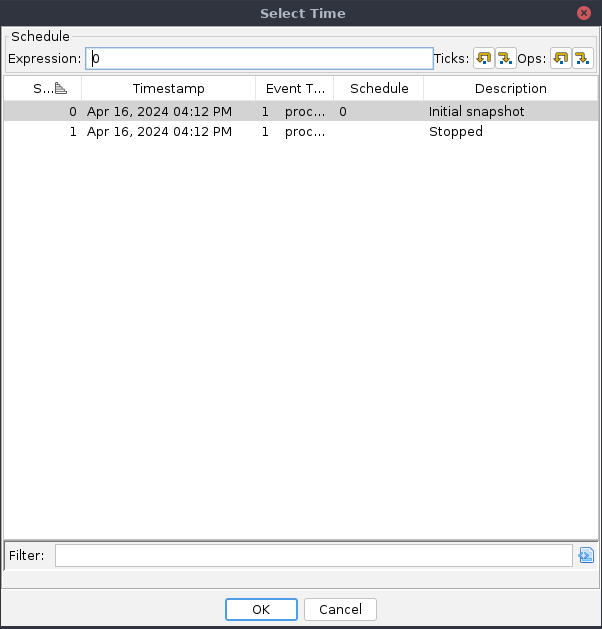
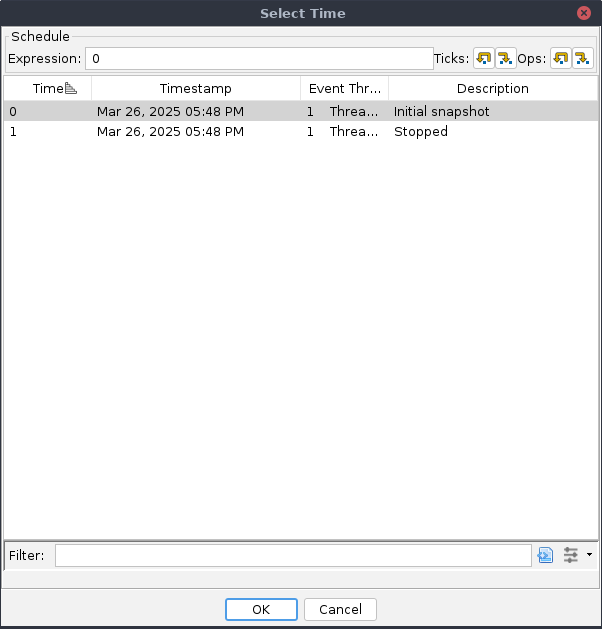
GP-5499: Add 'Time' column to Time table.

diff --git a/Ghidra/Debug/Debugger/src/main/help/help/topics/DebuggerTimeOverviewPlugin/DebuggerTimeOverviewPlugin.html b/Ghidra/Debug/Debugger/src/main/help/help/topics/DebuggerTimeOverviewPlugin/DebuggerTimeOverviewPlugin.html
@@ -13,32 +13,28 @@
   <BODY lang="EN-US">
     <H1><A name="plugin"></A>Debugger: Time Overview</H1>
 
-    <P>Patterned on the Program Overview, this plugin provides a pair of sidebars for the 
-	Dynamic Listing that indicate the history of the current trace, similar to those in the 
-	<A href="help/topics/DebuggerTimePlugin/DebuggerTimePlugin.html">Time</A>
-	and <A href="help/topics/DebuggerMemviewPlugin/DebuggerMemviewPlugin.html">Memview</A> plugins.  
-	The Trace Overview bar gives a compressed view of various events
-	(thread creation/destruction, module loads/unloads, et cetera). Events are added in time
-	snap order <em>without</em> spaces between consecutive events, as in the Memview display. The Trace 
-	Selection sidebar allows the user to click &amp; drag over a section of either sidebar and zooms 
-	in on that time span. In the zoomed version, events are in snap order <em>with</em> intervening space
-	to indicate the actual time delays (although these are dictated, in part, by the numbering
-	schema for events).
-	</P>
-
+    <P>Patterned on the Program Overview, this plugin provides a pair of sidebars for the Dynamic
+    Listing that indicate the history of the current trace, similar to those in the <A href=
+    "help/topics/DebuggerTimePlugin/DebuggerTimePlugin.html">Time</A> and <A href=
+    "help/topics/DebuggerMemviewPlugin/DebuggerMemviewPlugin.html">Memview</A> plugins. The Trace
+    Overview bar gives a compressed view of various events (thread creation/destruction, module
+    loads/unloads, et cetera). Events are added in time snap order <EM>without</EM> spaces between
+    consecutive events, as in the Memview display. The Trace Selection sidebar allows the user to
+    click &amp; drag over a section of either sidebar and zooms in on that time span. In the zoomed
+    version, events are in snap order <EM>with</EM> intervening space to indicate the actual time
+    delays (although these are dictated, in part, by the numbering schema for events).</P>
 
     <H2>Navigation</H2>
 
     <H3><A name="zoom"></A><IMG alt="" src="icon.widget.imagepanel.zoom.in">Zoom</H3>
 
-    <P>Clicking and dragging over a region of the Trace Overview causes that
-	span to be displayed uncompressed in the Trace Selection. The same action can also
-	be applied to the Trace Selection itself, resulting in a more detailed zoom.</P>
-	
-	<H3><A name="move"></A><IMG alt="" src="icon.widget.imagepanel.zoom.in">Move</H3>
-	
-	<P>Shift click &amp; drag on the Trace Selection allows the user to move forward and
-	backward in the view without rescaling.
-	</P>
+    <P>Clicking and dragging over a region of the Trace Overview causes that span to be displayed
+    uncompressed in the Trace Selection. The same action can also be applied to the Trace Selection
+    itself, resulting in a more detailed zoom.</P>
+
+    <H3><A name="move"></A><IMG alt="" src="icon.widget.imagepanel.zoom.in">Move</H3>
+
+    <P>Shift click &amp; drag on the Trace Selection allows the user to move forward and backward
+    in the view without rescaling.</P>
   </BODY>
 </HTML>

diff --git a/Ghidra/Debug/Debugger/src/main/help/help/topics/DebuggerTimePlugin/DebuggerTimePlugin.html b/Ghidra/Debug/Debugger/src/main/help/help/topics/DebuggerTimePlugin/DebuggerTimePlugin.html
@@ -25,14 +25,18 @@
     snapshot <EM>activates</EM> the selected point in time, i.e., the entire Debugger UI will
     navigate to the selected snapshot. <B>NOTE:</B> Navigating through time is not permitted while
     in <B>Control Target</B> <A href=
-    "help/topics/DebuggerControlPlugin/DebuggerControlPlugin.html#control_mode">mode</A>.</P>
+    "help/topics/DebuggerControlPlugin/DebuggerControlPlugin.html#control_mode">mode</A>, unless
+    the back end supports time travel.</P>
 
     <H2>Table Columns</H2>
 
     <P>The table has the following columns:</P>
 
     <UL>
-      <LI>Snap - the 0-up index of the snapshot (event) recorded.</LI>
+      <LI>Snap - the 0-up index of the snapshot (event) recorded. <EM>(hidden by default)</EM></LI>
+
+      <LI>Time - the "time" coordinate for the snapshot. This is the same as the Snap column for
+      most snapshots. For <EM>scratch</EM> snapshots, this is the same as the Schedule column.</LI>
 
       <LI>Timestamp - the "wall-clock" time of the event. If the debugger doesn't give an event
       time, or the snapshot does not correspond to an event, then it is the snapshot creation
@@ -44,7 +48,8 @@
       <LI>Schedule - if applicable, a source snap and the stepping schedule which produces this
       snapshot. This always applies to <EM>scratch</EM> snapshots produced by emulation, but may
       (rarely) apply to recorded events if the stepping schedule between them is somehow known. See
-      the <A href="#goto_time">Go To Time</A> action for a description of the notation.</LI>
+      the <A href="#goto_time">Go To Time</A> action for a description of the notation. <EM>(hidden
+      by default)</EM></LI>
 
       <LI>Description - a user-modifiable description of the snapshot or event. This defaults to
       the debugger's description of the event.</LI>
@@ -91,11 +96,10 @@
 
     <H3><A name="hide_scratch"></A>Hide Scratch</H3>
 
-    <P>This toggle action is always available in the drop-down actions of the Time window. It is
-    enabled by default. The emulation service, which enables trace extrapolation and interpolation,
-    writes emulated state into the trace's <EM>scratch space</EM>, which comprises all negative
-    snaps. When this toggle is enabled, those snapshots are hidden. They can be displayed by
-    disabling this toggle. Note that navigating into scratch space may cause temporary undefined
-    behavior in some windows, and may prevent interaction with the target.</P>
+    <P>This toggle action is always available in the toolbar of the Time window. It is disabled by
+    default. The emulation service, which enables trace extrapolation and interpolation, writes
+    emulated state into the trace's <EM>scratch space</EM>, which comprises all negative snaps.
+    Some time-travel capable back ends may also write into scratch space. When this toggle is
+    enabled, those scratch snapshots are hidden.</P>
   </BODY>
 </HTML>

diff --git a/GhidraDocs/GhidraClass/Debugger/A5-Navigation.html b/GhidraDocs/GhidraClass/Debugger/A5-Navigation.html
@@ -230,16 +230,15 @@ alt="Time window" />
 general, every pause generates a snapshot. By default, the most recent
 snapshot is at the bottom. The columns are:</p>
 <ul>
-<li>The <strong>Snap</strong> column numbers each snapshot. Other
-windows that indicate life spans refer to these numbers.</li>
+<li>The <strong>Time</strong> column numbers each snapshot. Other
+windows that indicate life spans refer to these numbers. If emulating
+(covered later in this course), this column may display the
+schedule.</li>
 <li>The <strong>Timestamp</strong> column gives the time when the
 snapshot was created, i.e., the time when the event occurred.</li>
 <li>The <strong>Event Thread</strong> column indicates which thread
 caused the target to break. This only applies to snapshots that were
 created because of an event, which is most.</li>
-<li>The <strong>Schedule</strong> column describes the snapshot in
-relation to another. It typically only applies to emulator / scratch
-snapshots, which are covered later in this course.</li>
 <li>The <strong>Description</strong> column describes the event that
 generated the snapshot. This can be edited in the table, or by pressing
 <strong><code>CTRL</code>-<code>SHIFT</code>-<code>N</code></strong> to

diff --git a/Ghidra/Debug/Debugger/src/main/java/ghidra/app/plugin/core/debug/gui/time/DebuggerSnapshotTablePanel.java b/Ghidra/Debug/Debugger/src/main/java/ghidra/app/plugin/core/debug/gui/time/DebuggerSnapshotTablePanel.java
@@ -35,6 +35,7 @@ import ghidra.trace.model.Trace;
 import ghidra.trace.model.TraceDomainObjectListener;
 import ghidra.trace.model.time.TraceSnapshot;
 import ghidra.trace.model.time.TraceTimeManager;
+import ghidra.trace.model.time.schedule.TraceSchedule;
 import ghidra.trace.util.TraceEvents;
 import ghidra.util.table.GhidraTableFilterPanel;
 import ghidra.util.table.column.AbstractGColumnRenderer;
@@ -43,28 +44,32 @@ public class DebuggerSnapshotTablePanel extends JPanel {
 
 	protected enum SnapshotTableColumns
 		implements EnumeratedTableColumn<SnapshotTableColumns, SnapshotRow> {
-		SNAP("Snap", Long.class, SnapshotRow::getSnap),
-		TIMESTAMP("Timestamp", String.class, SnapshotRow::getTimeStamp), // TODO: Use Date type here
-		EVENT_THREAD("Event Thread", String.class, SnapshotRow::getEventThreadName),
-		SCHEDULE("Schedule", String.class, SnapshotRow::getSchedule),
-		DESCRIPTION("Description", String.class, SnapshotRow::getDescription, SnapshotRow::setDescription);
+		SNAP("Snap", Long.class, SnapshotRow::getSnap, false),
+		TIME("Time", TraceSchedule.class, SnapshotRow::getTime, true),
+		TIMESTAMP("Timestamp", String.class, SnapshotRow::getTimeStamp, true), // TODO: Use Date type here
+		EVENT_THREAD("Event Thread", String.class, SnapshotRow::getEventThreadName, true),
+		SCHEDULE("Schedule", String.class, SnapshotRow::getSchedule, false),
+		DESCRIPTION("Description", String.class, SnapshotRow::getDescription, SnapshotRow::setDescription, true);
 
 		private final String header;
 		private final Function<SnapshotRow, ?> getter;
 		private final BiConsumer<SnapshotRow, Object> setter;
 		private final Class<?> cls;
+		private final boolean visible;
 
-		<T> SnapshotTableColumns(String header, Class<T> cls, Function<SnapshotRow, T> getter) {
-			this(header, cls, getter, null);
+		<T> SnapshotTableColumns(String header, Class<T> cls, Function<SnapshotRow, T> getter,
+				boolean visible) {
+			this(header, cls, getter, null, visible);
 		}
 
 		@SuppressWarnings("unchecked")
 		<T> SnapshotTableColumns(String header, Class<T> cls, Function<SnapshotRow, T> getter,
-				BiConsumer<SnapshotRow, T> setter) {
+				BiConsumer<SnapshotRow, T> setter, boolean visible) {
 			this.header = header;
 			this.cls = cls;
 			this.getter = getter;
 			this.setter = (BiConsumer<SnapshotRow, Object>) setter;
+			this.visible = visible;
 		}
 
 		@Override
@@ -88,8 +93,25 @@ public class DebuggerSnapshotTablePanel extends JPanel {
 		}
 
 		@Override
+		public boolean isVisible() {
+			return visible;
+		}
+
+		@Override
 		public void setValueOf(SnapshotRow row, Object value) {
 			setter.accept(row, value);
+		}
+	}
+
+	protected static class SnapshotTableModel
+			extends DefaultEnumeratedColumnTableModel<SnapshotTableColumns, SnapshotRow> {
+		public SnapshotTableModel(PluginTool tool) {
+			super(tool, "Snapshots", SnapshotTableColumns.class);
+		}
+
+		@Override
+		public List<SnapshotTableColumns> defaultSortOrder() {
+			return List.of(SnapshotTableColumns.TIME);
 		}
 	}
 
@@ -153,7 +175,7 @@ public class DebuggerSnapshotTablePanel extends JPanel {
 		}
 	};
 
-	protected final EnumeratedColumnTableModel<SnapshotRow> snapshotTableModel;
+	protected final SnapshotTableModel snapshotTableModel;
 	protected final GTable snapshotTable;
 	protected final GhidraTableFilterPanel<SnapshotRow> snapshotFilterPanel;
 	protected boolean hideScratch = true;
@@ -165,8 +187,7 @@ public class DebuggerSnapshotTablePanel extends JPanel {
 
 	public DebuggerSnapshotTablePanel(PluginTool tool) {
 		super(new BorderLayout());
-		snapshotTableModel =
-			new DefaultEnumeratedColumnTableModel<>(tool, "Snapshots", SnapshotTableColumns.class);
+		snapshotTableModel = new SnapshotTableModel(tool);
 		snapshotTable = new GTable(snapshotTableModel);
 		snapshotTable.setSelectionMode(ListSelectionModel.SINGLE_SELECTION);
 		add(new JScrollPane(snapshotTable));
@@ -178,9 +199,12 @@ public class DebuggerSnapshotTablePanel extends JPanel {
 		TableColumn snapCol = columnModel.getColumn(SnapshotTableColumns.SNAP.ordinal());
 		snapCol.setPreferredWidth(40);
 		snapCol.setCellRenderer(styleCurrentRenderer);
-		TableColumn timeCol = columnModel.getColumn(SnapshotTableColumns.TIMESTAMP.ordinal());
-		timeCol.setPreferredWidth(200);
+		TableColumn timeCol = columnModel.getColumn(SnapshotTableColumns.TIME.ordinal());
+		timeCol.setPreferredWidth(40);
 		timeCol.setCellRenderer(styleCurrentRenderer);
+		TableColumn timeStampCol = columnModel.getColumn(SnapshotTableColumns.TIMESTAMP.ordinal());
+		timeStampCol.setPreferredWidth(200);
+		timeStampCol.setCellRenderer(styleCurrentRenderer);
 		TableColumn etCol = columnModel.getColumn(SnapshotTableColumns.EVENT_THREAD.ordinal());
 		etCol.setPreferredWidth(40);
 		etCol.setCellRenderer(styleCurrentRenderer);

diff --git a/Ghidra/Debug/Debugger/src/main/java/ghidra/app/plugin/core/debug/gui/time/SnapshotRow.java b/Ghidra/Debug/Debugger/src/main/java/ghidra/app/plugin/core/debug/gui/time/SnapshotRow.java
@@ -21,6 +21,7 @@ import db.Transaction;
 import ghidra.trace.model.Trace;
 import ghidra.trace.model.thread.TraceThread;
 import ghidra.trace.model.time.TraceSnapshot;
+import ghidra.trace.model.time.schedule.TraceSchedule;
 import ghidra.util.DateUtils;
 
 public class SnapshotRow {
@@ -36,6 +37,14 @@ public class SnapshotRow {
 
 	public TraceSnapshot getSnapshot() {
 		return snapshot;
+	}
+
+	public TraceSchedule getTime() {
+		long snap = snapshot.getKey();
+		if (snap < 0) {
+			return snapshot.getSchedule();
+		}
+		return TraceSchedule.snap(snap);
 	}
 
 	public long getSnap() {

diff --git a/Ghidra/Debug/Debugger/src/main/java/ghidra/app/plugin/core/debug/gui/time/DebuggerTimeProvider.java b/Ghidra/Debug/Debugger/src/main/java/ghidra/app/plugin/core/debug/gui/time/DebuggerTimeProvider.java
@@ -82,7 +82,7 @@ public class DebuggerTimeProvider extends ComponentProviderAdapter {
 	private DebuggerSnapActionContext myActionContext;
 
 	@AutoConfigStateField
-	/*testing*/ boolean hideScratch = true;
+	/*testing*/ boolean hideScratch = false;
 
 	public DebuggerTimeProvider(DebuggerTimePlugin plugin) {
 		super(plugin.getTool(), TITLE_PROVIDER_TIME, plugin.getName());

diff --git a/Ghidra/Test/DebuggerIntegrationTest/src/screen/java/ghidraclass/debugger/screenshot/TutorialDebuggerScreenShots.java b/Ghidra/Test/DebuggerIntegrationTest/src/screen/java/ghidraclass/debugger/screenshot/TutorialDebuggerScreenShots.java
@@ -663,6 +663,7 @@ public class TutorialDebuggerScreenShots extends GhidraScreenShotGenerator
 		DebuggerTimeSelectionDialog timeDialog =
 			waitForDialogComponent(DebuggerTimeSelectionDialog.class);
 		timeDialog.setScheduleText(TraceSchedule.snap(snapA).toString());
+		timeDialog.getComponent().requestFocus();
 		captureDialog(timeDialog);
 	}
 

diff --git a/Ghidra/Debug/Debugger/src/main/java/ghidra/app/plugin/core/debug/gui/DebuggerResources.java b/Ghidra/Debug/Debugger/src/main/java/ghidra/app/plugin/core/debug/gui/DebuggerResources.java
@@ -1726,8 +1726,7 @@ public interface DebuggerResources {
 			String ownerName = owner.getName();
 			return new ToggleActionBuilder(NAME, ownerName)
 					.description(DESCRIPTION)
-					.menuGroup(GROUP_GENERAL)
-					.menuPath(NAME)
+					.toolBarIcon(ICON_FILTER)
 					.helpLocation(new HelpLocation(ownerName, HELP_ANCHOR));
 		}
 	}

diff --git a/GhidraDocs/GhidraClass/Debugger/A5-Navigation.md b/GhidraDocs/GhidraClass/Debugger/A5-Navigation.md
@@ -122,13 +122,12 @@ In general, every pause generates a snapshot.
 By default, the most recent snapshot is at the bottom.
 The columns are:
 
-* The **Snap** column numbers each snapshot.
+* The **Time** column numbers each snapshot.
   Other windows that indicate life spans refer to these numbers.
+  If emulating (covered later in this course), this column may display the schedule.
 * The **Timestamp** column gives the time when the snapshot was created, i.e., the time when the event occurred.
 * The **Event Thread** column indicates which thread caused the target to break.
   This only applies to snapshots that were created because of an event, which is most.
-* The **Schedule** column describes the snapshot in relation to another.
-  It typically only applies to emulator / scratch snapshots, which are covered later in this course.
 * The **Description** column describes the event that generated the snapshot.
   This can be edited in the table, or by pressing **`CTRL`-`SHIFT`-`N`** to mark interesting snapshots.
 
